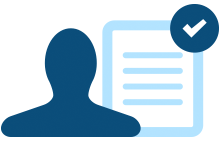
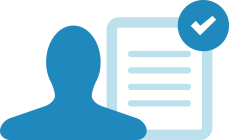
homepage style

diff --git a/app/assets/stylesheets/style.css.scss b/app/assets/stylesheets/style.css.scss
@@ -23,8 +23,6 @@ body#home       .sticky-footer-wrapper .sticky-footer-content > .container,
 body.auxilliary .sticky-footer-wrapper .sticky-footer-content > .container { width: auto }
 
 .h-middle { background: #cbebed image-url('h-middle-bg.png') no-repeat center 28px; }
-.h-middle-extra { background: transparent image-url('h-transparent-water.png') repeat-x left bottom; padding-top: 178px; overflow: hidden; }
-
 .h-page-top-repeat { width: 100%; background: image-url('h-top.png') repeat-x left top; }
 .h-page-left-repeat { width: 100%; background: transparent image-url('h-left.jpg') repeat-y left; }
 .h-page-right-repeat  { width: 100%; background: transparent image-url('h-right.jpg') repeat-y right; }
@@ -35,10 +33,16 @@ body.auxilliary .sticky-footer-wrapper .sticky-footer-content > .container { wid
 .h-page-content-extra h1 { font-family: 'futuracondensed_medium'; font-size: 50px; line-height: 1; text-align: center; color: #000; }
 .h-page-content-extra ul { font-family: 'droid_sansregular'; color: #3d3d3d; font-size: 16px; list-style: none; margin:0 0 30px; padding: 0;}
 .h-page-content-extra ul li  { padding: 15px 0; border-bottom: 1px solid #e4e4e4; line-height: 20px; }
-.h-page-content-extra button { display: block; border: none; height: 55px; line-height: 55px; background: image-url('h-yellow-btn-middle.png') repeat-x; padding: 0; font-weight: bold; font-size: 20px; color: #fff; margin: 0 auto; }
-.btn-y-inner { width: 430px; display: block; }
-.btn-y-left { background: image-url('h-yellow-btn-left.png') no-repeat left; display: block; padding-left: 10px; }
-.btn-y-right { background: image-url('h-yellow-btn-right.png') no-repeat right; display: block; padding-right: 10px; }
+
+.chapter-story-test .btn {
+  display: block;
+  height: 55px;
+  line-height: 55px;
+  padding: 0 100px;
+  font-weight: bold;
+  font-size: 20px;
+  margin: 0 auto;
+}
 
 .h-sub-middle {
   padding: 20px 0;
@@ -82,15 +86,6 @@ body.auxilliary .sticky-footer-wrapper .sticky-footer-content > .container { wid
 .h-features p { color: #787878; font-size: 18px; line-height: 24px; }
 .col-3 { width: 300px; float: left; display: inline; margin: 0 10px; } /* Optional for 16 column grid */
 
-.h-testi { min-height: 238px; position: relative; }
-.h-testi-inner { position: relative; z-index: 10; }
-.what-saying { background: #0f4c7a image-url('testi-arrow.jpg') no-repeat right top; height: 238px; }
-.im-saying { background: #b4e3ff; height: 238px; }
-.what-saying,
-.im-saying { margin-left: 0 !important; padding-left: 20px; }
-.what-saying > div { padding: 80px 40px 10px 0; }
-.what-saying h2 { font-size: 30px; color: #fff; line-height: 26px; font-weight: normal; }
-
 .im-saying q,
 .im-saying p { color: #252626; line-height: 26px; font-size: 16px; }
 .im-saying q { font-style: italic; }
@@ -123,11 +118,6 @@ body.auxilliary .sticky-footer-wrapper .sticky-footer-content > .container { wid
   }
 }
 
-.h-testi .post-ab-left,
-.h-testi .post-ab-right { position: absolute; top: 0; width: 50%; height: 100%; z-index: 1; }
-.h-testi .post-ab-left { background: #0f4c7a; left: 0; }
-.h-testi .post-ab-right { background: #b4e3ff; right: 0; }
-
 .non-profit { display: block; padding-bottom: 30px; }
 
 /**********************/
@@ -140,19 +130,6 @@ header { margin: 0; }
 .navbar-inner { background: none; border: none; border-radius: 0; box-shadow: none; }
 .navbar .nav > li > a:focus, .navbar .nav > li > a:hover { color: #dfdfdf; }
 .navbar a.brand { padding: 0px; }
-
-.brand {
-  width: 202px;
-  height: 61px;
-  background: image-url('quill-temp-logo.png') no-repeat;
-  display: block;
-  text-indent: -999em;
-}
-
-#m-sign-in a,
-#m-create-account a { height: 20px; line-height: 20px; padding: 0 10px; -webkit-border-radius: 10px; -moz-border-radius: 10px; border-radius: 10px; font-size: 12px; color: #fff; }
-#m-sign-in  a{ background: #393939; color: #909090; }
-#m-create-account a { background: #d90053;}
 
 .page-title-wrap {}
 .page-title  { height: 75px; }

diff --git a/app/assets/stylesheets/pages/home_page.css.scss b/app/assets/stylesheets/pages/home_page.css.scss
@@ -2,4 +2,101 @@ body.home-page {
   .sticky-footer-content > .container {
     width: auto;
   }
+
+  .home-hero-unit {
+    position: relative;
+    background-color: #bee2ed;
+
+    .overlay {
+      position: absolute;
+      bottom: 0px;
+      width: 100%;
+      background-position: top center;
+    }
+
+    .content-overlay {
+      position: relative;
+      z-index: 3;
+    }
+
+    .water-overlay {
+      height: 458px;
+      background-image: image-url('home/water.png');
+      @include opacity(70);
+      z-index: 2;
+    }
+
+    .floats-overlay {
+      height: 730px;
+      background: image-url('home/floats.png');
+      background-repeat: no-repeat;
+      z-index: 1;
+    }
+  }
+
+  .home-lesson {
+    padding-top: 40px;
+  }
+
+  .home-pitch {
+    text-align: center;
+    color: white;
+    height: 350px - 80px;
+    padding-top: 80px;
+
+    h2 {
+      font-size: 45px;
+      margin-bottom: 35px;
+    }
+
+    .subtitle {
+      font-size: 20px;
+      margin-bottom: 40px;
+    }
+
+    .call-to-action .btn:first-child {
+      margin-right: 20px;
+    }
+  }
+
+  .home-product-features {
+    background-color: white;
+
+    h2 {
+      font-size: 36px;
+      margin-bottom: 25px;
+    }
+
+    p {
+      font-size: 18px;
+      margin-bottom: 25px;
+    }
+
+    a {
+      font-size: 17px;
+      font-weight: bold;
+      color: $found-color;
+    }
+
+    .image {
+      float: left;
+      width: 300px;
+      text-align: center;
+      padding-right: 30px;
+    }
+
+    .product-feature {
+      overflow: hidden;
+      @include opacity(80);
+      margin-bottom: 80px;
+      &:first-child { margin-top: 80px }
+    }
+
+    .product-feature-description {
+      overflow: hidden;
+    }
+  }
+
+  .home-news {
+  }
 }

diff --git a/app/assets/stylesheets/home.css.scss b/app/assets/stylesheets/home.css.scss
@@ -10,35 +10,34 @@
   }
 }
 
-.homepage-top-instructions {
-  width: 434px;
-  padding: 10px;
-  margin-bottom: 20px;
+header {
+  background-color: $darkgrey;
 
-  .line1 {
-    font-size: 24px;
-    color: #666;
-
-    em {
-      font-weight: bold;
-      font-style: normal;
-      color: #d90053;
-    }
-  }
-
-  .line2 {
+  .navbar .nav {
     font-weight: bold;
-    color: #d90053;
-    font-size: 34px;
-    line-height: 1.6;
+    font-size: 12px;
   }
 
-  .line3 {
-    color: #d90053;
-    text-align: center;
-    background-color: white;
-    font-style: italic;
-    padding: 6px 0;
-    border: 1px solid;
+  // override bootstrap.
+  .navbar .nav > li { float: none ; display: inline-block }
+  .navbar .nav > li         > a { color: #c7c7c7 }
+  .navbar .nav > li.nav-btn > a { color: white }
+
+  .nav-btn {
+    @include border-radius(3px);
+    background-color: #464c5a;
+    padding: 2px 7px;
   }
+
+  .btn-primary {
+    background-color: $found-color;
+  }
+}
+
+.brand {
+  width: 202px;
+  height: 61px;
+  background: image-url('logo.png') 0 8px no-repeat;
+  display: block;
+  text-indent: -999em;
 }

diff --git a/app/assets/stylesheets/application.css.scss b/app/assets/stylesheets/application.css.scss
@@ -9,7 +9,7 @@ $yellow:         #fcd000;
 $pink:           #d90053;
 $white:          #ffffff;
 $darkblue:       #0f4c7a;
-$darkgrey:       #252626;
+$darkgrey:       #32353d;
 
 $missed-color: #d54141;
 $missed-color-light: #ffeade;
@@ -28,9 +28,12 @@ $tried-color-light: #fff9d6;
 .con-darkblue       { background: $darkblue; }
 .con-darkgrey       { background: $darkgrey; }
 
-$baseFontFamily: "Lucida Sans Unicode", "Lucida Grande", sans-serif;
-
 $header-font: "Comfortaa", cursive;
+
+$baseFontFamily: "Lucida Sans Unicode", "Lucida Grande", sans-serif;
+$headingsFontFamily: $header-font;
+$headingsFontWeight: normal;
+
 
 @import "bootstrap_imports";
 @import "compass/typography/text/replacement";

diff --git a/app/assets/stylesheets/pages/chapter_story_page.css.scss b/app/assets/stylesheets/pages/chapter_story_page.css.scss
@@ -1,12 +1,13 @@
 .chapter-story-page {
   padding-top: 20px;
 
-  .story-instructions {
-    background-color: white;
-    border-radius: 5px;
-    text-align: center;
-    font-size: 16px;
-    padding: 10px;
-    margin-bottom: 20px;
-  }
+}
+
+.story-instructions {
+  background-color: white;
+  border-radius: 5px;
+  text-align: center;
+  font-size: 16px;
+  padding: 10px;
+  margin-bottom: 20px;
 }

diff --git a/app/models/chapter_test.rb b/app/models/chapter_test.rb
@@ -111,19 +111,9 @@ protected
   end
 end
 
-module ChapterTestView
-  def story_instructions
-    (chapter.assessment.instructions || default_story_instructions) % {errors: chapter.assessment.questions.length, max: ChapterTest::MAX_QUESTIONS}
-  end
-
-  def default_story_instructions
-    'Proofread the story. There are %{errors} errors to correct. You may re-edit this essay %{max} times.'
-  end
-end
-
 class ChapterTest
   delegate :params, to: :@context
-  include ChapterFlow, ChapterTestView
+  include ChapterFlow
 
   def initialize context
     @context = context

diff --git a/app/models/chapter.rb b/app/models/chapter.rb
@@ -1,4 +1,15 @@
+module ChapterView
+  def story_instructions
+    (assessment.instructions || default_story_instructions) % {errors: assessment.questions.length, max: ChapterTest::MAX_QUESTIONS}
+  end
+
+  def default_story_instructions
+    'Proofread the story. There are %{errors} errors to correct. You may re-edit this essay %{max} times.'
+  end
+end
+
 class Chapter < ActiveRecord::Base
+  include ChapterView
   has_many :assignments
   has_one :assessment
   belongs_to :workbook

diff --git a/db/schema.rb b/db/schema.rb
@@ -13,6 +13,9 @@
 
 ActiveRecord::Schema.define(version: 20130926203005) do
 
+  # These are extensions that must be enabled in order to support this database
+  enable_extension "plpgsql"
+
   create_table "assessments", force: true do |t|
     t.text     "body"
     t.integer  "chapter_id"
